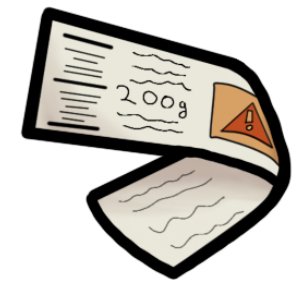
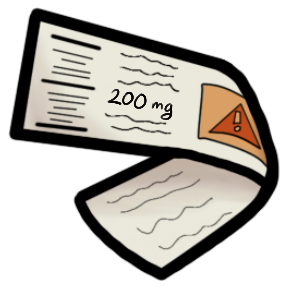
algunas descripciones y etiquetas corregidas

diff --git a/TheatrumMundiProyect/TheatrumMundi/BooksPuzzleScene.cpp b/TheatrumMundiProyect/TheatrumMundi/BooksPuzzleScene.cpp
@@ -229,7 +229,7 @@ void BooksPuzzleScene::init(SceneRoomTemplate* sr)
 		clk->connect(ClickComponent::JUST_CLICKED, [this, clock, sr]() {
 
 			Vector2D position = sr->GetInventory()->setPosition(); //Position of the new object
-			AddInvItem("horaria", "La manecilla de las horas de un reloj", position, sr);
+			AddInvItem("horaria", "La manecilla de las horas de un reloj.", position, sr);
 			clock->getMngr()->setActive(clock, false);
 			});
 
@@ -237,8 +237,8 @@ void BooksPuzzleScene::init(SceneRoomTemplate* sr)
 		clk->connect(ClickComponent::JUST_CLICKED, [variant,this, tag, sr]() {
 
 			Vector2D position = sr->GetInventory()->setPosition(); //Position of the new object
-			if(variant <= 1)AddInvItem("etiquetaV1", "Etiqueta de alguna clase de qu�mico.", position, sr);
-			else if(variant == 2) AddInvItem("etiquetaV2", "Etiqueta de alguna clase de qu�mico.", position, sr);
+			if(variant <= 1)AddInvItem("etiquetaV1", "Etiqueta de algún químico. Indica una cantidad de 200mg.", position, sr);
+			else if(variant == 2) AddInvItem("etiquetaV2", "Etiqueta de algún químico.¿Solo 10 mg?", position, sr);
 			tag->getMngr()->setActive(tag, false);
 			});
 

diff --git a/TheatrumMundiProyect/TheatrumMundi/Room1.cpp b/TheatrumMundiProyect/TheatrumMundi/Room1.cpp
@@ -169,7 +169,7 @@ void Room1Scene::_setRoomEvents()
 	roomEvent[Spoon] = [this]()
 		{
 			// InventoryLogic
-			GetInventory()->addItem(new Hint("TeaCupSpoon", "Es una cuchara, que no lo ves o que", &sdlutils().images().at("TeaCupSpoon")));
+			GetInventory()->addItem(new Hint("TeaCupSpoon", "Una cuchara de plata.", &sdlutils().images().at("TeaCupSpoon")));
 			GetInventory()->hints.push_back(entityFactory->CreateInteractableEntity(entityManager, "TeaCupSpoon", EntityFactory::RECTAREA, GetInventory()->setPosition(), Vector2D(0, 0), 268 / 2, 268 / 2, 0, areaLayerManager, EntityFactory::NODRAG, ecs::grp::UI));
 			GetInventory()->hints.back()->getMngr()->setActive(GetInventory()->hints.back(), false);
 		};

diff --git a/TheatrumMundiProyect/TheatrumMundi/ClockPuzzleScene.cpp b/TheatrumMundiProyect/TheatrumMundi/ClockPuzzleScene.cpp
@@ -195,8 +195,8 @@ void ClockPuzzleScene::init(SceneRoomTemplate* sr)
 
 					Vector2D position = sr->GetInventory()->setPosition(); //Position of the new object
 					//Assign to this inventory the hint;
-					if(variant <=1)AddInvItem("frascoV2", "Un frasco vacio.",position, sr);
-					else if (variant ==2)AddInvItem("frascoV1", "Contiene restos de algo.", position, sr);
+					if(variant <=1)AddInvItem("frascoV2", "Un frasco totalmente limpio, que raro.",position, sr);
+					else if (variant ==2)AddInvItem("frascoV1", "Un frasco con restos de algo. Tiene huellas de dedos", position, sr);
 
 #ifdef DEBUG
 					std::cout << "wii";

diff --git a/TheatrumMundiProyect/TheatrumMundi/DataManager.cpp b/TheatrumMundiProyect/TheatrumMundi/DataManager.cpp
@@ -13,9 +13,12 @@ DataManager::DataManager()
 int DataManager::getRandomVariant()
 
 {
-
+    //Sala 1:
     //0 = es posible
     // 1 y 2 = variantes de ha sido un mago 
+
+	//Sala 2:
+    
 
     int mage = sdlutils().rand().nextInt(0,2);
 
